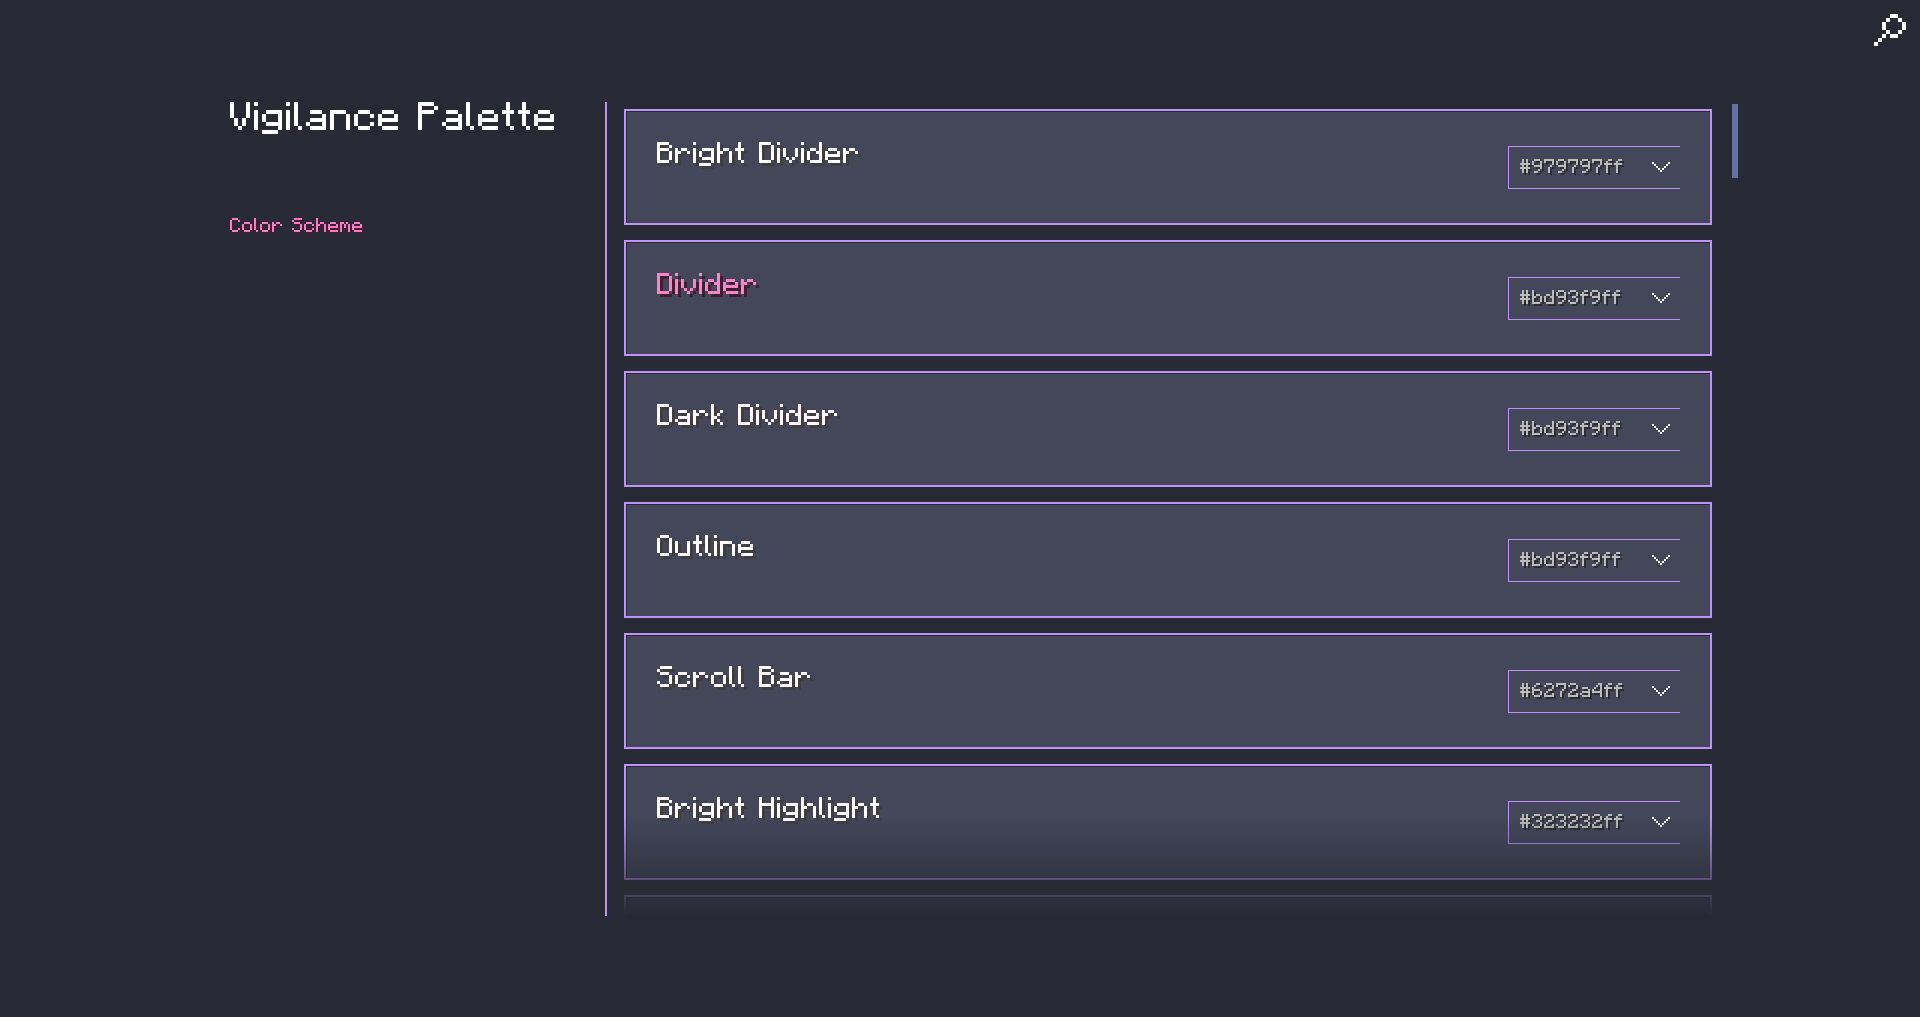
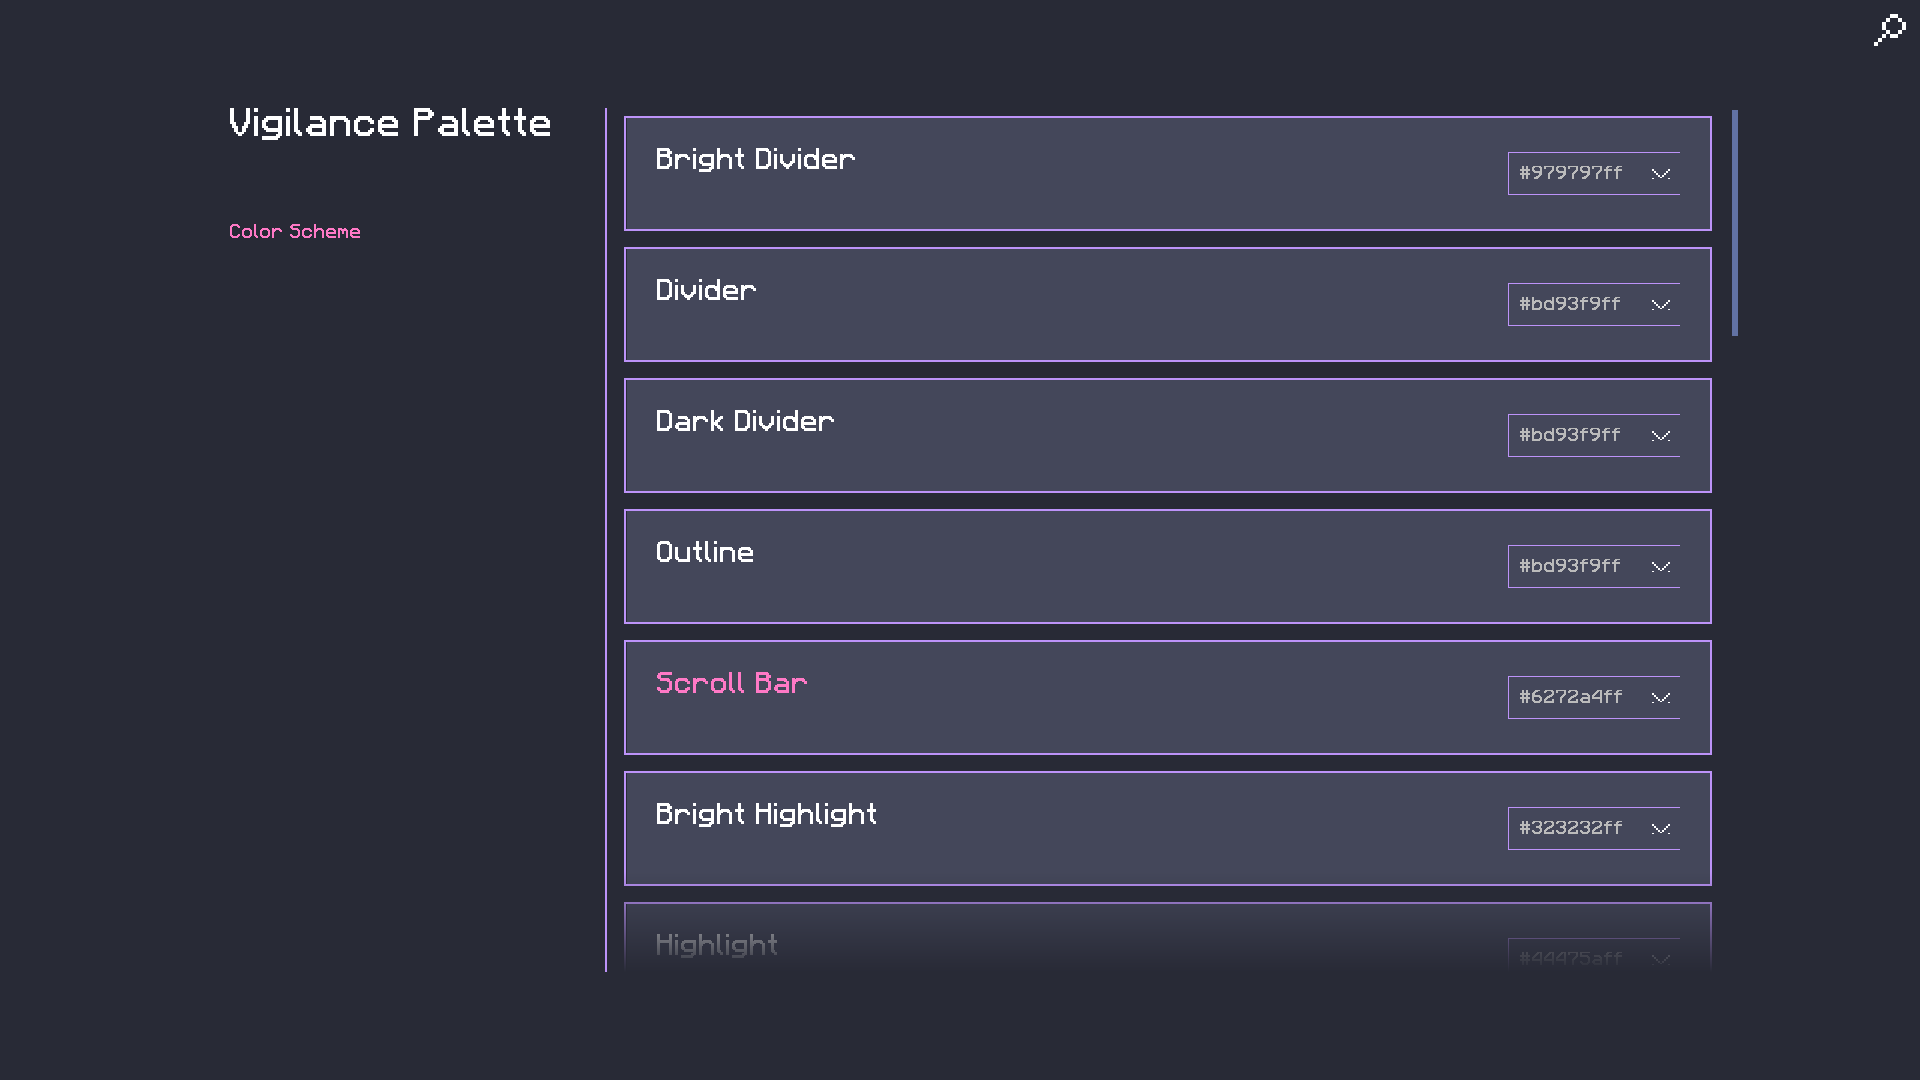
Redo screenshots for consistency, add link to contributing guidelines and Atom one dark palette in README.md

diff --git a/README.md b/README.md
@@ -9,8 +9,8 @@ A repository full of custom themes for [Vigilance](https://github.com/Sk1erLLC/V
 ## Planned Color Schemes
 
 * Solarized - https://github.com/altercation/solarized#precision-colors-for-machines-and-people
-* Atom One Dark - https://github.com/jolaleye/horizon-theme-vscode#personalization 
-  - Palette to be found later
+* Atom One Dark - https://raw.githubusercontent.com/akamud/vscode-theme-onedark/master/themes/OneDark.json
+    - Alternatively, you can also check out https://github.com/joshdick/onedark.vim/blob/b70ed293f3c3adaea23f9fcd84ef942015664756/colors/onedark.vim#L14-L40
 * Horizon - https://github.com/jolaleye/horizon-theme-vscode#personalization
 * Ayu - https://github.com/dempfi/ayu
 
@@ -18,3 +18,7 @@ A repository full of custom themes for [Vigilance](https://github.com/Sk1erLLC/V
 * Dracula - https://github.com/dracula/dracula-theme#color-palette
 * Gruvbox - https://github.com/morhetz/gruvbox#palette
 * Deus - https://github.com/ajmwagar/vim-deus#palette
+
+## Contributors
+
+* If you are interested in contributing to this project, please check out the [contributing guidelines](https://github.com/proudmuslim-dev/vigilance-themes/wiki/Contributing) page on our wiki.
